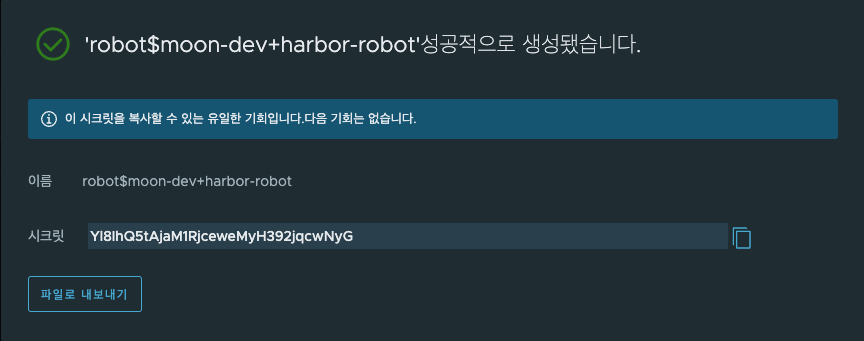
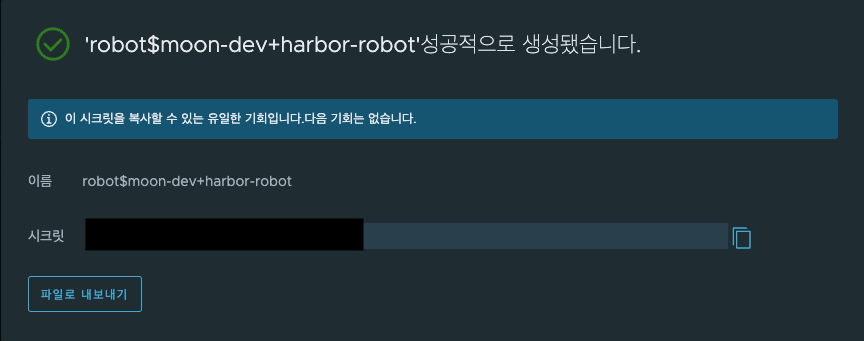
fix

Changed region(s): [[0.0938, 0.6158, 0.4375, 0.7331]]

diff --git a/docs/개발 및 배포 도구/Harbor/Harbor CICD 구성 (jenkins, secret).md b/docs/개발 및 배포 도구/Harbor/Harbor CICD 구성 (jenkins, secret).md
@@ -1,0 +1,104 @@
+> [!INFO] Jenkins Credentials
+> 별다른 특이점 없이 사용자 계정 및 패스워드 로 이루어진 구성
+
+![[Pasted image 20250324184344.png]]
+
+*Harbor에서 프로젝트 생성: moon-dev*
+
+![[Pasted image 20250325095455.png]]
+
+```
+echo "[Docker Image] Harbor Start"
+
+def img = docker.build("${HARBOR_IMAGE_NAME}:latest", buildArgs)
+docker.withRegistry("${HARBOR_REPO_URL}", "${HARBOR_REPO_CREDENTIALS_ID}") {
+	retry(3) {
+			try{
+				img.push("${BUILD_NUMBER}")
+				img.push("latest")
+			} catch (e) {
+				sleep(10)
+			throw e
+		}
+	}
+}
+```
+
+![[Pasted image 20250325154209.png]]
+
+*Robot 계정 생성 (CI/CD용)*
+
+![[Pasted image 20250325154302.png]]
+
+새 로롯 계정 생성
+
+![[Pasted image 20250325154444.png]]
+
+pull push 권한 부여
+
+![[Pasted image 20250325154526.png]]
+
+![[Pasted image 20250325154548.png]]
+
+이름 robot$moon-dev+harbor-robot
+토큰 Yl8IhQ5tAjaM1RjceweMyH392jqcwNyG
+
+*Kubernetes 측 설정 / imagePullSecrets 등록 (Harbor 인증)*
+
+https://kubernetes.io/docs/tasks/configure-pod-container/pull-image-private-registry/
+
+```
+kubectl create secret docker-registry harbor-cred \
+  --docker-server=harbor-dev.x2bee.com \
+  --docker-username=robot$moon-dev+harbor-robot \
+  --docker-password=xxxxxxxxxxxxxxxxx \
+  --namespace=moon-dev
+```
+
+*네트워크 접근 가능 여부*
+```
+kubectl exec -n moon-dev <pod> -- nslookup harbor-dev.x2bee.com
+```
+
+*harbor secret을 네임스페이스에 등록하여 사용하는 방법*
+
+```
+
+kubectl create secret docker-registry harbor-secret \
+  --docker-server=harbor-dev.x2bee.com \
+  --docker-username=robot$moon-dev+harbor-robot \
+  --docker-password=xxxxxxxxxxxxxxxxx \
+  --namespace=moon-dev
+```
+
+![[Pasted image 20250326092115.png]]
+
+템플릿 내용
+
+```
+spec:
+ containers:
+  - name: {{ .Values.application.name }}
+    image: harbor-dev.x2bee.com/moon-dev/moon-x2bee-api-common:latest
+
+imagePullSecrets:
+- name: harbor-secret
+```
+
+*harbor secret을 어플리케이션에 등록하여 사용하는 방법*
+
+아래와 같이 템플릿 등록하여 사용하려고 시도해보았으나 Sync 단계에서 실패
+
+```
+apiVersion: v1
+kind: Secret
+metadata:
+  name: {{ .Values.application.name }}-docker-secret
+  namespace: {{ .Values.application.namespace }}
+  labels:
+    app: {{ .Values.application.name }}
+type: kubernetes.io/dockerconfigjson
+data:
+  .dockerconfigjson: key
+```
+
